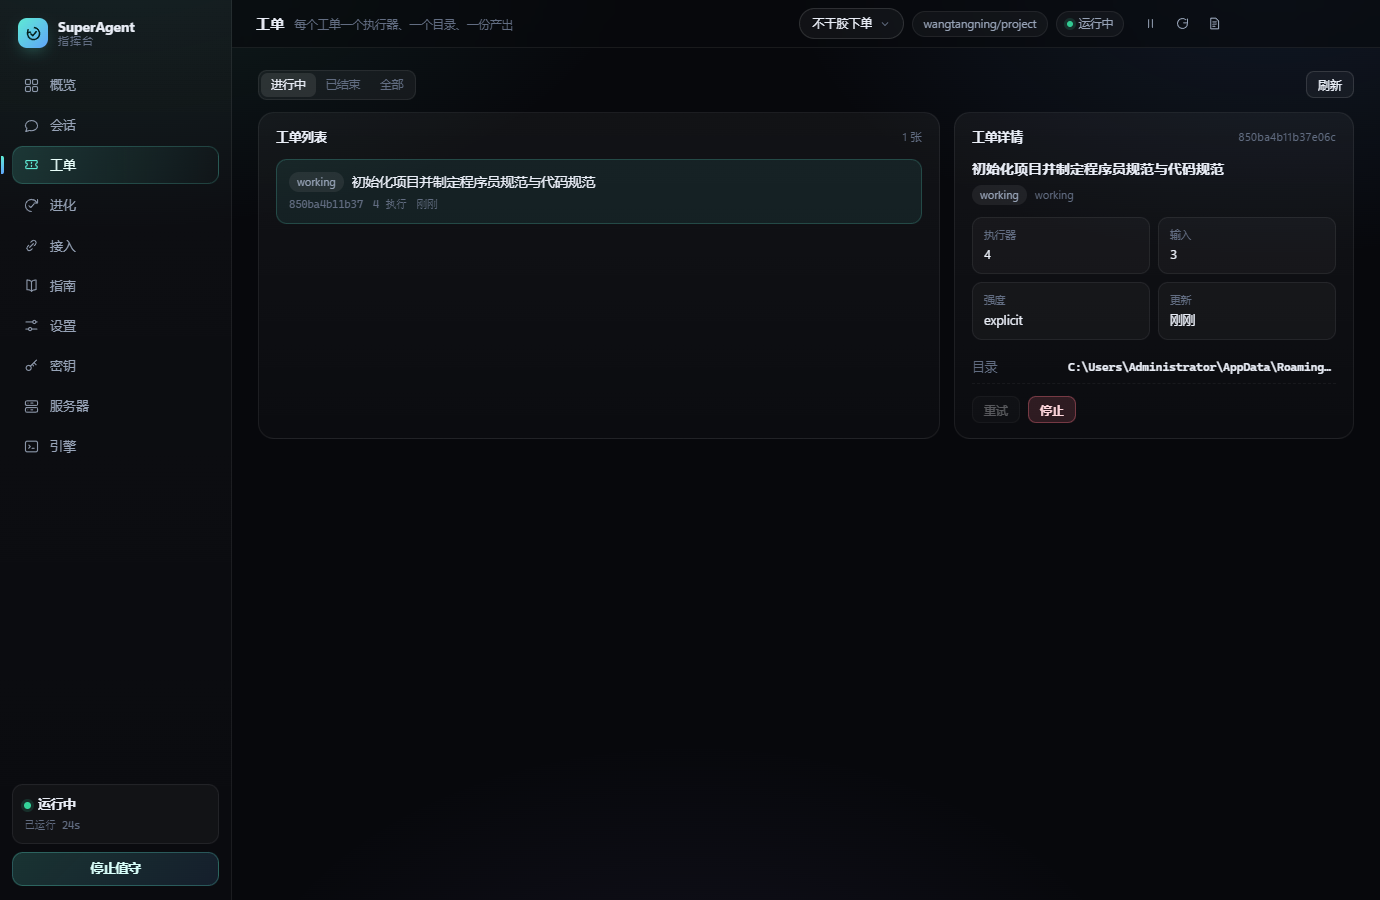
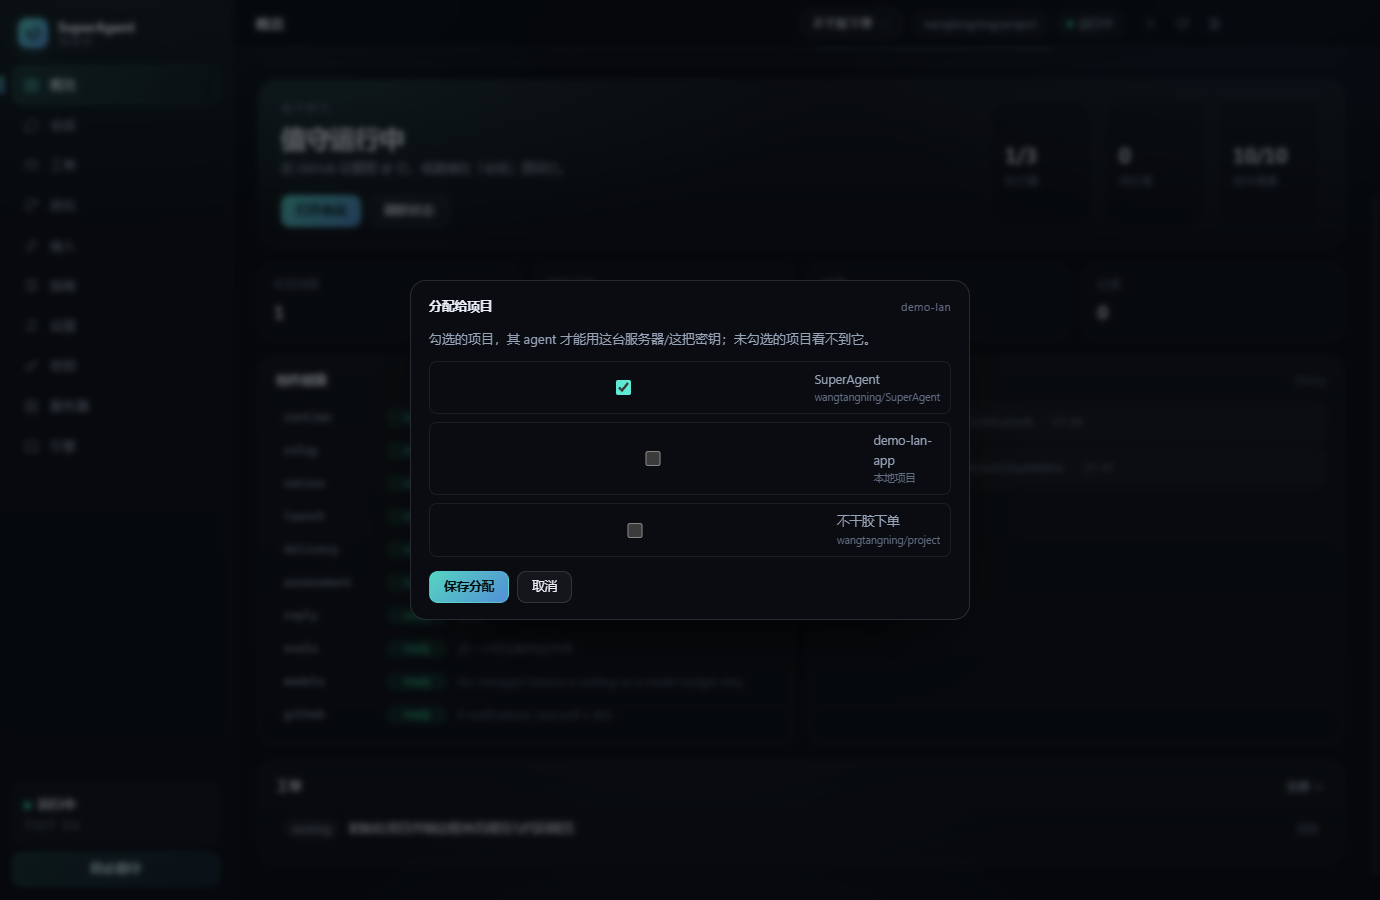
服务器凭据可修改（改密码）+ 认证失败友好提示
ssh 探测确认服务器支持 password/publickey，拒绝=凭据不匹配；
错误文案改为可读中文；servers:update IPC + 改密码按钮。

diff --git a/electron/server-vault.js b/electron/server-vault.js
@@ -183,6 +183,25 @@ class ServerVault {
     ].join('\n');
   }
 
+  /** 更新凭据（改密码/换密钥）。 */
+  update(id, { password, privateKey, username, port, note }) {
+    const d = this._load();
+    const s = d.servers.find((x) => x.id === id);
+    if (!s) throw new Error('服务器不存在');
+    if (username) s.username = String(username).trim();
+    if (port) s.port = Number(port) || s.port;
+    if (note !== undefined) s.note = String(note).slice(0, 200);
+    if (password || privateKey) {
+      s.auth = password ? 'password' : 'key';
+      s.secret = this.encrypt(JSON.stringify({ password: password || '', privateKey: privateKey || '' }));
+    }
+    this._save(d);
+    this.syncAssigned();
+    this.log(`服务器凭据已更新：${s.name}`);
+    this.onChange();
+    return { ok: true };
+  }
+
   /** 连接测试：密码/密钥认证 + 执行 echo。 */
   async test(id) {
     const d = this._load();
@@ -201,7 +220,12 @@ class ServerVault {
           stream.on('close', () => { clearTimeout(timer); conn.end(); resolve({ ok: out.includes('superagent-ok'), output: out.trim().slice(0, 300) }); });
         });
       });
-      conn.on('error', (e) => { clearTimeout(timer); resolve({ ok: false, output: e.message.slice(0, 200) }); });
+      conn.on('error', (e) => {
+        clearTimeout(timer);
+        let msg = e.message;
+        if (/All configured authentication methods failed/i.test(msg)) msg = '服务器拒绝了登录：用户名或密码不对（服务器支持密码/密钥登录）。点「改密码」修正后重试。';
+        resolve({ ok: false, output: msg.slice(0, 200) });
+      });
       const cfg = { host: s.host, port: s.port, username: s.username, readyTimeout: 8000, tryKeyboard: true };
       if (secret.privateKey) cfg.privateKey = secret.privateKey;
       else cfg.password = secret.password;

diff --git a/ui/app.js b/ui/app.js
@@ -634,6 +634,7 @@ function renderServers(s) {
       ${v.note ? `<div class="evo-p-why">${esc(v.note)}</div>` : ''}
       <div class="pa-btns">
         <button class="btn ghost sm" data-srv-act="test" data-srv-id="${esc(v.id)}">测试连接</button>
+        <button class="btn ghost sm" data-srv-act="edit" data-srv-id="${esc(v.id)}">改密码</button>
         <button class="btn sm" data-srv-act="assign" data-srv-id="${esc(v.id)}">分配给项目…</button>
         <button class="btn ghost sm danger" data-srv-act="remove" data-srv-id="${esc(v.id)}">删除</button>
       </div>
@@ -652,6 +653,20 @@ async function srvAction(act, id) {
       return;
     }
     if (act === 'assign') { openAssignModal('server', id); return; }
+    if (act === 'edit') {
+      const v = (servers.servers || []).find((x) => x.id === id);
+      const pass = prompt(`更新 ${v.name} 的密码（留空取消）：`);
+      if (pass === null) return;
+      if (!pass) { toast('未修改'); return; }
+      await host.serversUpdate(id, { password: pass });
+      toast('密码已更新，重新测试…');
+      const r = await host.serversTest(id);
+      const out = $('srv-out-' + id);
+      out.hidden = false;
+      out.textContent = (r.ok ? '✓ 连接成功\n' : '✗ ') + r.output;
+      refreshServers();
+      return;
+    }
     if (act === 'remove') { await host.serversRemove(id); toast('已删除'); }
     refreshServers();
   } catch (e) { toast(e.message); }

diff --git a/electron/main.js b/electron/main.js
@@ -1112,6 +1112,7 @@ ipcMain.handle('ssh:registerGithub', async (_e, id) => {
 
 ipcMain.handle('servers:list', () => ensureServers(rt()).list(rt().p.id));
 ipcMain.handle('servers:add', (_e, p) => ensureServers(rt()).add(p || {}));
+ipcMain.handle('servers:update', (_e, { id, patch }) => ensureServers(rt()).update(String(id), patch || {}));
 ipcMain.handle('servers:remove', (_e, id) => ensureServers(rt()).remove(String(id)));
 ipcMain.handle('servers:test', (_e, id) => ensureServers(rt()).test(String(id)));
 ipcMain.handle('servers:assign', async (_e, id) => { const r = rt(); const res = ensureServers(r).assign(String(id), r.p.id); await syncServerSkill(r); if (r.phase === 'running') { log(r, '[lan] 重启引擎以注入 lan 助手…'); await stop(r); await start(r); } return res; });

diff --git a/electron/preload.js b/electron/preload.js
@@ -49,6 +49,7 @@ contextBridge.exposeInMainWorld('host', {
 
   serversList: () => ipcRenderer.invoke('servers:list'),
   serversAdd: (p) => ipcRenderer.invoke('servers:add', p),
+  serversUpdate: (id, patch) => ipcRenderer.invoke('servers:update', { id, patch }),
   serversRemove: (id) => ipcRenderer.invoke('servers:remove', id),
   serversTest: (id) => ipcRenderer.invoke('servers:test', id),
   serversAssign: (id) => ipcRenderer.invoke('servers:assign', id),
